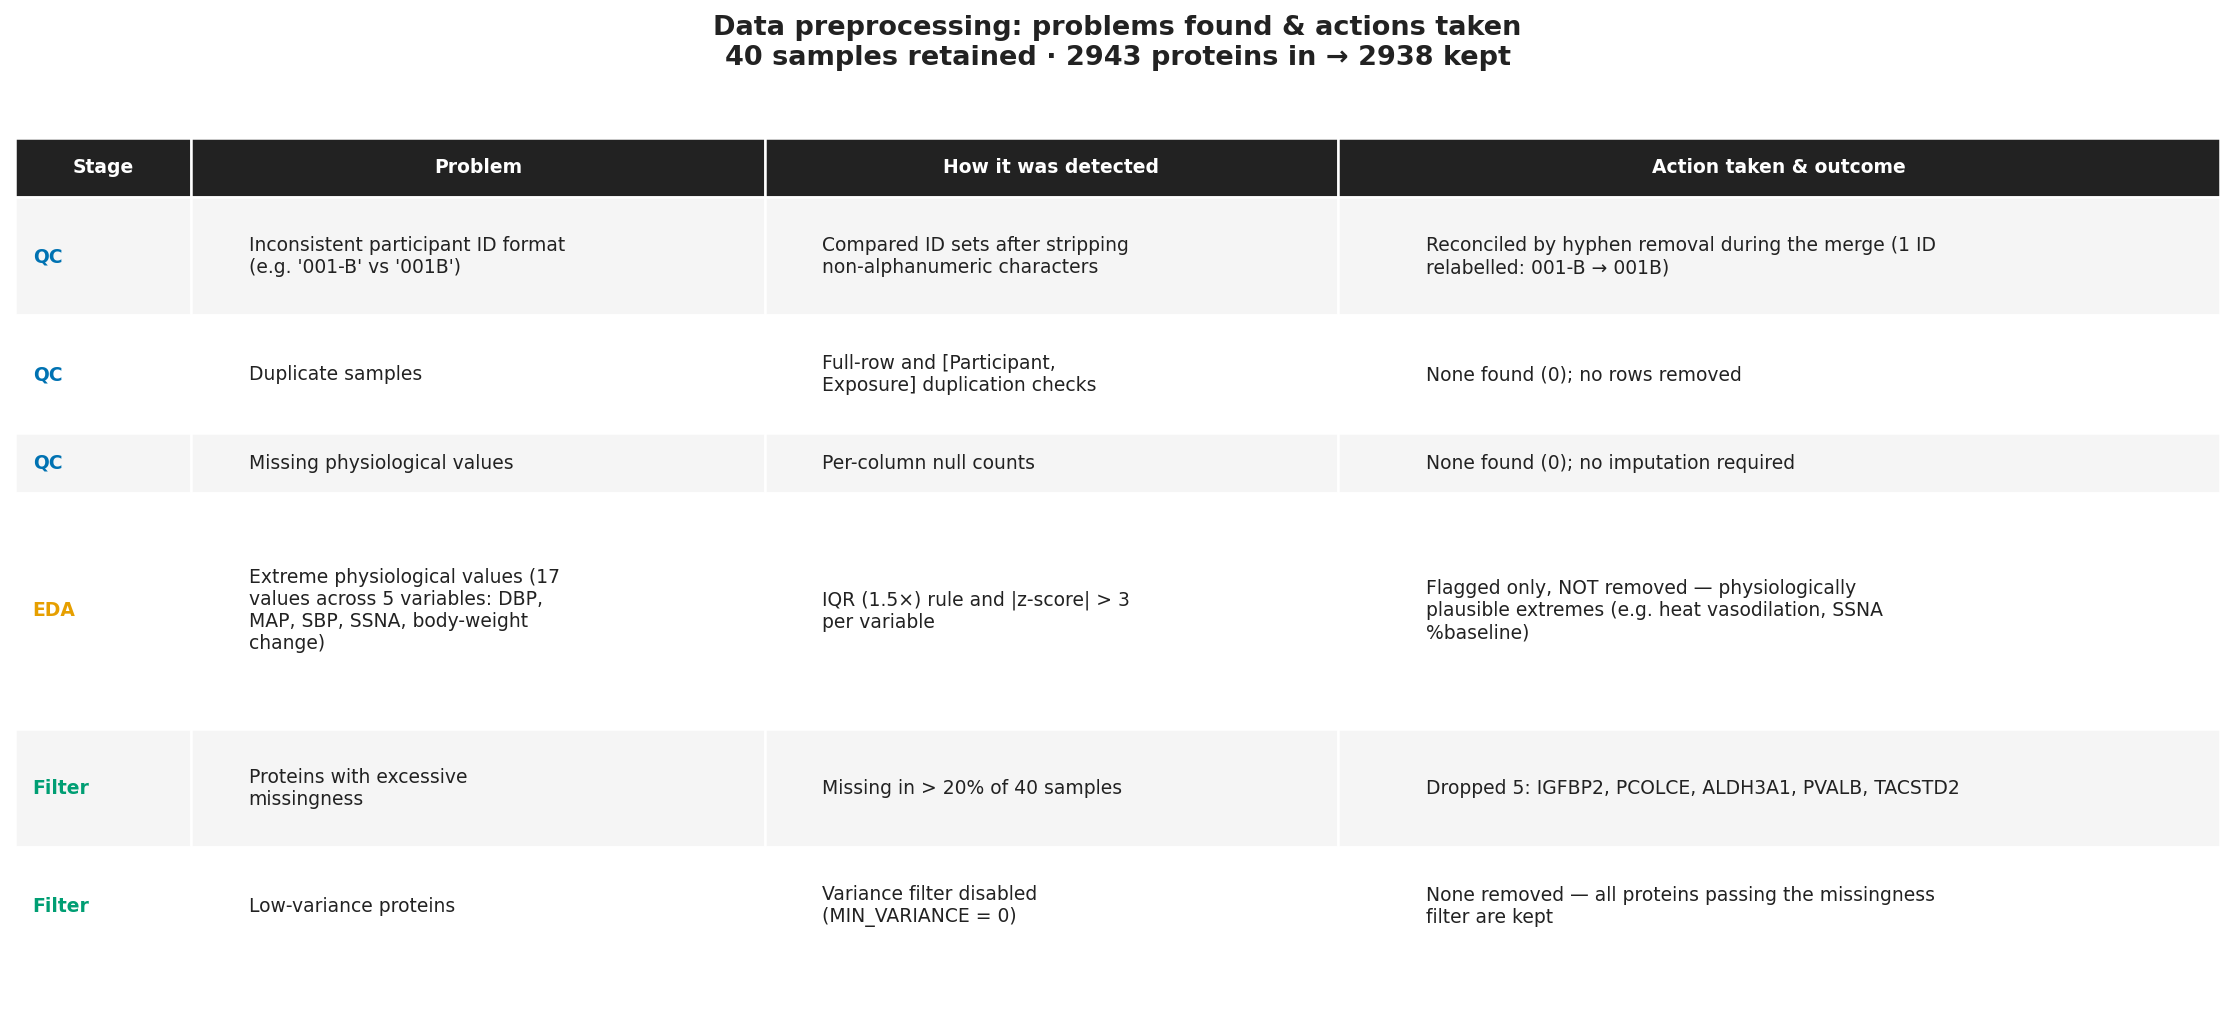
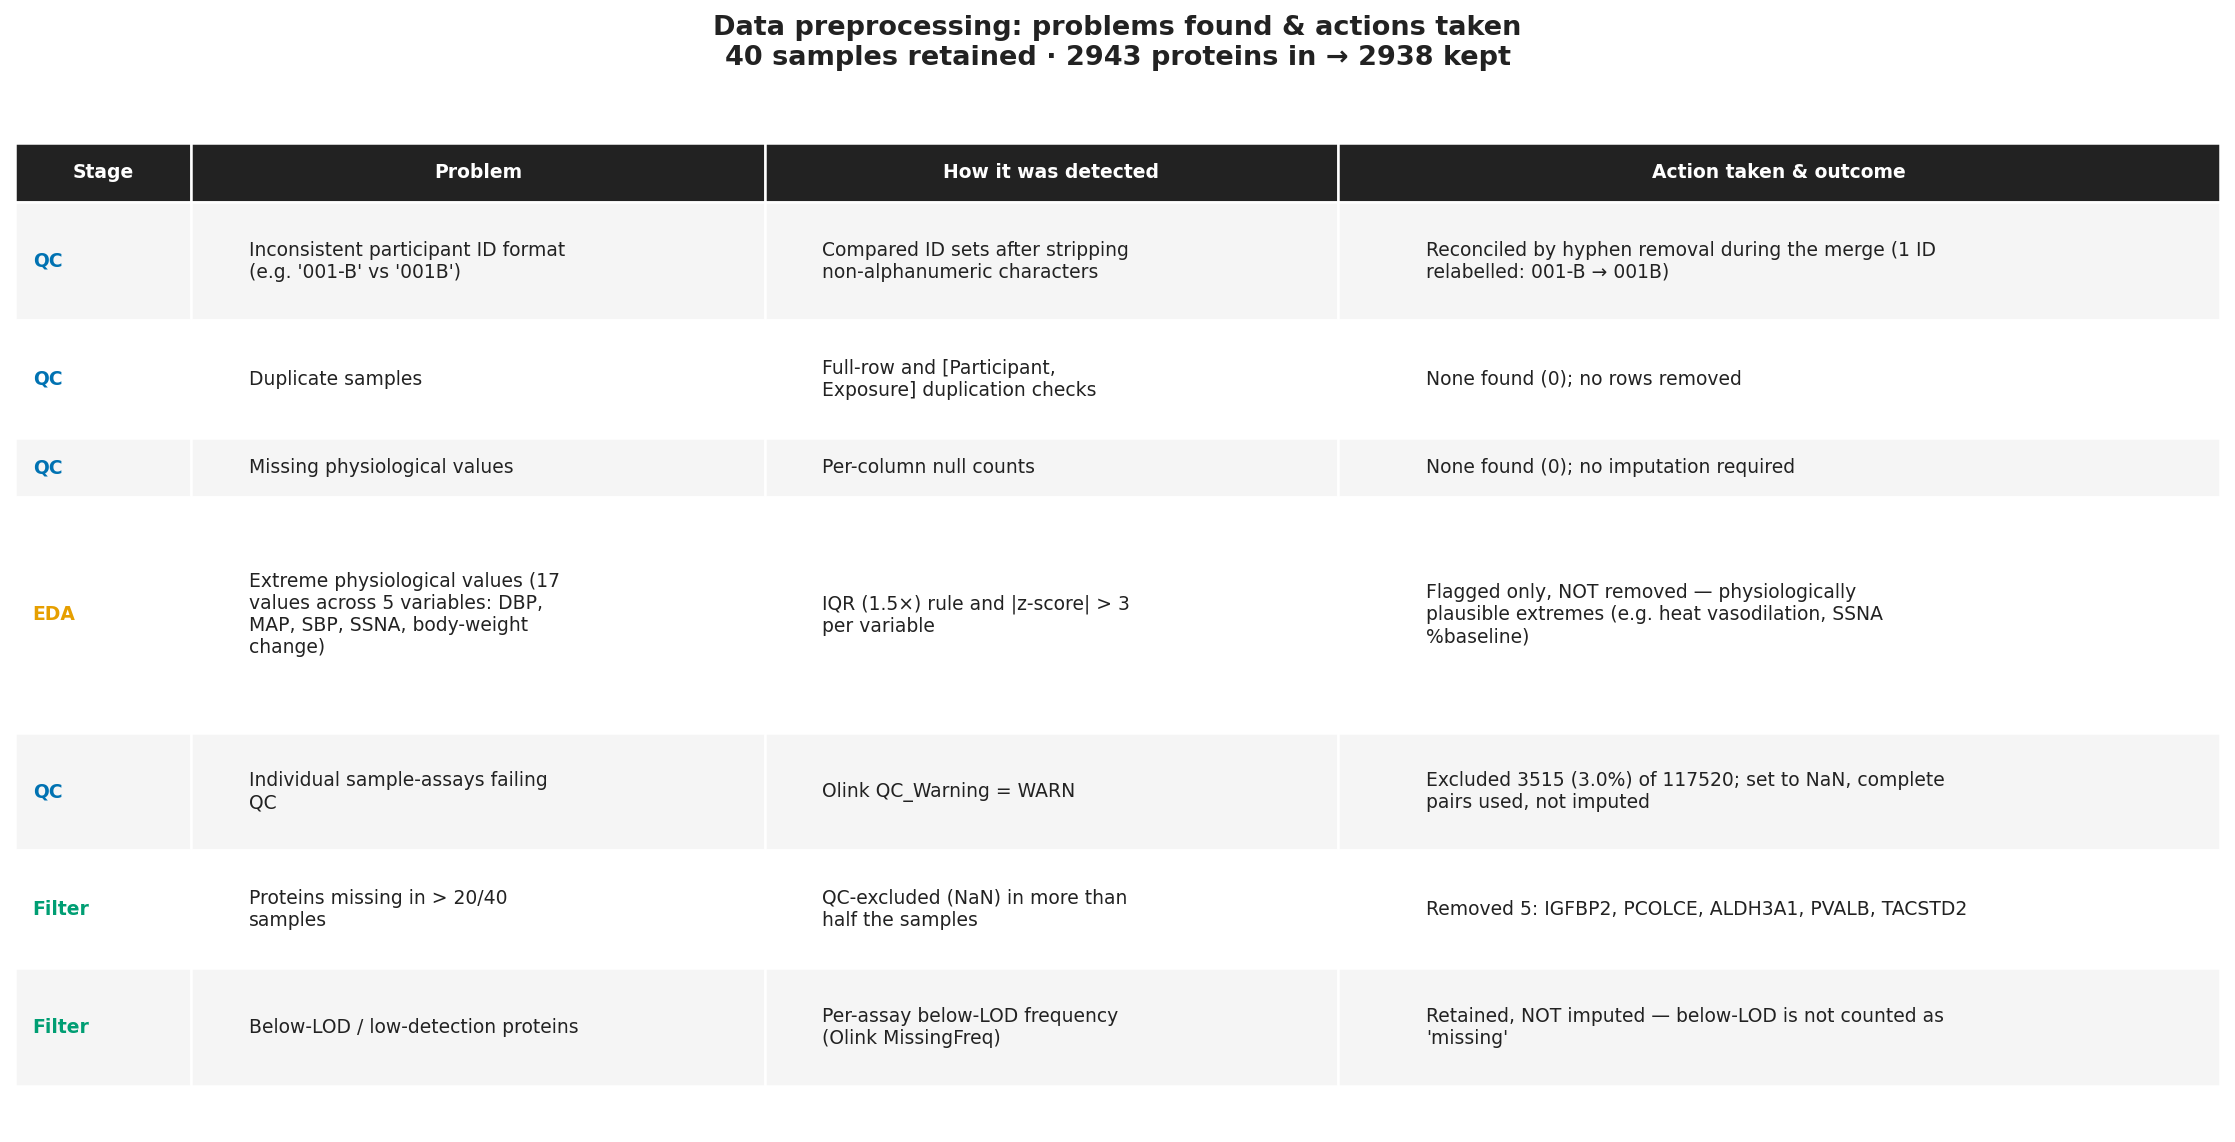
Refine protein filtering criteria and update associated visualizations

diff --git a/src/visualize_preprocessing.py b/src/visualize_preprocessing.py
@@ -7,9 +7,10 @@ Figures produced:
   results/session_distributions.png     -- session-level variables (measured once
       per acclimation session, identical across thermal stages) split by
       acclimation only, Pre --> Post.
-  results/protein_missingness.png       -- protein missingness profile with the
-      drop threshold, and the low-variance profile with its threshold.
-  results/protein_filtering_summary.png -- proteins kept vs dropped (by reason).
+  results/protein_missingness.png       -- protein missingness and variance
+      profiles (proteins missing in > 20/40 samples are removed; no variance
+      threshold).
+  results/protein_filtering_summary.png -- proteins kept vs removed (missing).
   results/preprocessing_summary.png     -- table of QC/preprocessing problems
       found and the action taken for each (numbers derived from the data).
 
@@ -24,7 +25,7 @@ import numpy as np
 import pandas as pd
 
 from read_physiological_data import DATA_DIR, PROJECT_DIR
-from preprocess import MAX_MISSING_FRAC, MIN_VARIANCE, PHYS_META, KEYS, OUTLIERS_PATH
+from preprocess import MAX_MISSING_FRAC, PHYS_META, KEYS, OUTLIERS_PATH
 
 RESULTS_DIR = PROJECT_DIR / "results"
 RESULTS_DIR.mkdir(exist_ok=True)
@@ -203,7 +204,9 @@ def plot_protein_missingness(miss_pct, variance):
     thr = MAX_MISSING_FRAC * 100
     ax1.axvline(np.interp(thr, counts.index, range(len(counts))),
                 color=C_THRESH, linestyle="--", linewidth=1.4)
-    ax1.text(0.97, 0.95, f"drop > {thr:g}% missing\n(removes {(miss_pct > thr).sum()})",
+    ax1.text(0.97, 0.95,
+             f"drop > {int(MAX_MISSING_FRAC * 40)}/40 ({thr:g}%) missing\n"
+             f"(removes {int((miss_pct > thr).sum())})",
              transform=ax1.transAxes, ha="right", va="top", color=C_THRESH, fontsize=9)
 
     # -- Variance: histogram on log10 axis --
@@ -213,16 +216,11 @@ def plot_protein_missingness(miss_pct, variance):
     ax2.set_xlabel("log10(variance)  [NPX, log2 scale]")
     ax2.set_ylabel("Number of proteins")
     ax2.set_title("Protein variance")
-    if MIN_VARIANCE > 0:
-        ax2.axvline(np.log10(MIN_VARIANCE), color=C_THRESH,
-                    linestyle="--", linewidth=1.4)
-        note = f"drop variance < {MIN_VARIANCE}\n(removes {(variance < MIN_VARIANCE).sum()})"
-    else:
-        note = "no variance filter\n(all proteins kept)"
-    ax2.text(0.03, 0.95, note, transform=ax2.transAxes, ha="left", va="top",
+    ax2.text(0.03, 0.95, "no variance filter\n(all proteins kept)",
+             transform=ax2.transAxes, ha="left", va="top",
              color=C_THRESH, fontsize=9)
 
-    fig.suptitle("Protein filters: missingness & variance",
+    fig.suptitle("Protein QC profile: missingness & variance",
                  fontsize=12, fontweight="bold")
     fig.tight_layout()
     out = RESULTS_DIR / "protein_missingness.png"
@@ -232,17 +230,12 @@ def plot_protein_missingness(miss_pct, variance):
 
 
 def plot_filtering_summary(n_total, dropped):
-    n_miss = int((dropped["Reason"].str.startswith("missing")).sum())
-    n_var = int((dropped["Reason"].str.startswith("variance")).sum())
-    n_keep = n_total - n_miss - n_var
+    n_drop = len(dropped)
+    n_keep = n_total - n_drop
 
-    labels = ["Kept", f"Dropped: missing > {MAX_MISSING_FRAC:.0%}"]
-    values = [n_keep, n_miss]
+    labels = ["Kept", f"Dropped: missing > {int(MAX_MISSING_FRAC * 40)}/40"]
+    values = [n_keep, n_drop]
     colors = [C_KEEP, C_DROP_MISS]
-    if MIN_VARIANCE > 0:  # only show the variance category when the filter is on
-        labels.append(f"Dropped: variance < {MIN_VARIANCE}")
-        values.append(n_var)
-        colors.append(C_DROP_VAR)
 
     fig, ax = plt.subplots(figsize=(9, 3.2))
     _recessive(ax)
@@ -279,9 +272,12 @@ def plot_preprocessing_summary(phys, merged, dropped):
     n_missing = int(phys.isna().sum().sum())
     id_only_phys = sorted(set(phys["Participant"]) - set(merged["Participant"]))
 
-    miss_list = dropped.loc[dropped["Reason"].str.startswith("missing"), "Protein"].tolist()
-    var_list = dropped.loc[dropped["Reason"].str.startswith("variance"), "Protein"].tolist()
+    qc_fail_list = dropped["Protein"].tolist()
     n_total, n_kept = len(protein_cols), len(protein_cols) - len(dropped)
+    # Individual sample-assays excluded by QC (NaN) among the retained proteins.
+    kept_cols = [c for c in protein_cols if c not in set(qc_fail_list)]
+    n_sample_qc = int(merged[kept_cols].isna().values.sum())
+    n_sample_tot = len(merged) * len(kept_cols)
 
     outliers = pd.read_csv(OUTLIERS_PATH)
     short = lambda v: ("body-weight change" if v.startswith("Change")
@@ -307,21 +303,17 @@ def plot_preprocessing_summary(phys, merged, dropped):
          "IQR (1.5×) rule and |z-score| > 3 per variable",
          "Flagged only, NOT removed — physiologically plausible extremes "
          "(e.g. heat vasodilation, SSNA %baseline)"),
-        ("Filter", "Proteins with excessive missingness",
-         f"Missing in > {MAX_MISSING_FRAC:.0%} of {len(merged)} samples",
-         f"Dropped {len(miss_list)}: {', '.join(miss_list)}"),
+        ("QC", "Individual sample-assays failing QC",
+         "Olink QC_Warning = WARN",
+         f"Excluded {n_sample_qc} ({100 * n_sample_qc / n_sample_tot:.1f}%) of "
+         f"{n_sample_tot}; set to NaN, complete pairs used, not imputed"),
+        ("Filter", "Proteins missing in > 20/40 samples",
+         "QC-excluded (NaN) in more than half the samples",
+         f"Removed {len(qc_fail_list)}: {', '.join(qc_fail_list)}"),
+        ("Filter", "Below-LOD / low-detection proteins",
+         "Per-assay below-LOD frequency (Olink MissingFreq)",
+         "Retained, NOT imputed — below-LOD is not counted as 'missing'"),
     ]
-    if MIN_VARIANCE > 0:
-        rows.append((
-            "Filter", "Near-constant (low-variance) proteins",
-            f"NPX variance < {MIN_VARIANCE} (among proteins surviving the "
-            f"missingness filter)",
-            f"Dropped {len(var_list)}: {', '.join(var_list)}"))
-    else:
-        rows.append((
-            "Filter", "Low-variance proteins",
-            "Variance filter disabled (MIN_VARIANCE = 0)",
-            "None removed — all proteins passing the missingness filter are kept"))
 
     col_labels = ["Stage", "Problem", "How it was detected",
                   "Action taken & outcome"]

diff --git a/src/preprocess.py b/src/preprocess.py
@@ -8,8 +8,9 @@ It performs:
   1. QC   -- duplicated samples, inconsistent identifiers, missing values.
   2. EDA  -- distribution summary + potential outliers for physiology variables
              (flagged, NOT removed: n is small and the extremes are biological).
-  3. Protein filtering -- drop proteins with excessive missingness or extremely
-     low variance before downstream analysis.
+  3. Protein filtering -- remove proteins missing (QC-excluded) in more than
+     20/40 samples; below-LOD values are kept, not imputed, and no variance
+     threshold is applied.
 
 Outputs:
   - data/Physiological_NPX_Preprocessed.csv   (filtered, downstream-ready)
@@ -24,14 +25,12 @@ import pandas as pd
 
 from read_physiological_data import DATA_DIR
 
-# ---- Filtering thresholds (edit here) -------------------------------------
-# Drop a protein if it is missing in more than this fraction of samples.
-MAX_MISSING_FRAC = 0.20
-# Drop a protein if its variance (NPX, log2 scale) is below this value.
-# 0.0 disables the variance filter: every protein passing the missingness
-# filter is retained (a near-constant protein simply carries no signal and is
-# handled gracefully downstream), so no protein is removed for low variance.
-MIN_VARIANCE = 0.0
+# ---- Protein filtering policy ---------------------------------------------
+# Remove a protein if it is missing (QC-excluded) in MORE than 20 of the 40
+# samples (> 50%). Below-LOD values are NOT counted as missing -- they are
+# retained and NOT imputed, so proteins mostly below the limit of detection
+# stay in the analysis. No variance threshold is applied.
+MAX_MISSING_FRAC = 0.5   # drop a protein missing in > 20/40 samples
 # ---------------------------------------------------------------------------
 
 PHYS_PATH = DATA_DIR / "Physiological_Data_Cleaned.csv"
@@ -117,39 +116,30 @@ def filter_proteins(merged, phys_cols):
     proteins = merged[protein_cols]
     n = len(merged)
 
-    miss_frac = proteins.isna().mean()
-    variance = proteins.var(numeric_only=True)
+    miss_count = proteins.isna().sum()
+    miss_frac = miss_count / n
+    n_sample_qc = int(proteins.isna().values.sum())
+    thr = int(round(MAX_MISSING_FRAC * n))  # 20 of 40
 
     print(f"proteins in       : {len(protein_cols)}")
-    print("\nmissingness (% of samples) sensitivity:")
-    for thr in [0.0, 0.05, 0.10, 0.20, 0.50]:
-        print(f"   > {int(thr*100):3d}% missing : {(miss_frac > thr).sum()}")
-    print("\nvariance sensitivity:")
-    for thr in [0.005, 0.01, 0.02, 0.05]:
-        print(f"   variance < {thr:<5}: {(variance < thr).sum()}")
+    print(f"sample-assay QC exclusions (NaN) : {n_sample_qc} "
+          f"({100 * n_sample_qc / proteins.size:.1f}% of {proteins.size})")
+    print(f"\nmissingness (n of {n} samples) profile:")
+    for k in [0, 2, 4, 8, 20]:
+        print(f"   > {k:2d}/{n} missing : {int((miss_count > k).sum())}")
 
+    # Remove a protein missing (QC-excluded) in more than 20/40 samples.
+    # Below-LOD values are NOT missing (kept, not imputed); no variance filter.
     drop_missing = miss_frac[miss_frac > MAX_MISSING_FRAC].index
-    # Only consider variance among proteins that survived the missing filter.
-    surviving = [c for c in protein_cols if c not in set(drop_missing)]
-    var_surv = merged[surviving].var(numeric_only=True)
-    drop_lowvar = var_surv[var_surv < MIN_VARIANCE].index
+    keep_proteins = [c for c in protein_cols if c not in set(drop_missing)]
 
     dropped = pd.DataFrame(
-        [{"Protein": p, "Reason": f"missing>{MAX_MISSING_FRAC:.0%}",
-          "MissingFrac": round(miss_frac[p], 3), "Variance": round(variance[p], 5)
-          if pd.notna(variance[p]) else np.nan} for p in drop_missing]
-        + [{"Protein": p, "Reason": f"variance<{MIN_VARIANCE}",
-            "MissingFrac": round(miss_frac[p], 3), "Variance": round(variance[p], 5)}
-           for p in drop_lowvar]
+        [{"Protein": p, "Reason": f"missing in > {thr}/{n} samples",
+          "MissingFrac": round(float(miss_frac[p]), 3)} for p in drop_missing]
     )
 
-    keep_proteins = [c for c in protein_cols
-                     if c not in set(drop_missing) | set(drop_lowvar)]
-
-    print(f"\nDROPPED (missing > {MAX_MISSING_FRAC:.0%})   : "
+    print(f"\nDROPPED (missing in > {thr}/{n} samples): "
           f"{len(drop_missing)}  {list(drop_missing)}")
-    print(f"DROPPED (variance < {MIN_VARIANCE}): "
-          f"{len(drop_lowvar)}  {list(drop_lowvar)}")
     print(f"proteins kept     : {len(keep_proteins)}")
     return keep_proteins, dropped
 
